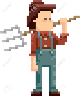
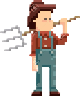
Se agrego el objeto que trae las flechas del teclado ademas de que se agrego la imagen del granjero al proyecto

diff --git a/js/platzi.js b/js/platzi.js
@@ -1,5 +1,6 @@
 var vp = document.getElementById("Villa_platzi");
 var papel = vp.getContext("2d");
+document.addEventListener("keydown", controlGranjero);//esto sirve para mover al granjero cuando oprima una tecla de las flechitas del teclado
 
 var fondo = {
     url: "img/tile.png",
@@ -19,7 +20,13 @@ var pollo = {
 };
 var granjero = {
     url: "img/granjero.png",
-    cargaOK: false
+    cargaOK: false,
+};
+var teclas = {
+    LEFT: 37,
+    UP: 38,
+    RIGHT: 39,
+    DOWN: 40
 };
 
 
@@ -42,6 +49,10 @@ cerdo.imagen.addEventListener("load", cargarCerdos);
 pollo.imagen = new Image();
 pollo.imagen.src = pollo.url;
 pollo.imagen.addEventListener("load", cargarPollos);
+
+granjero.imagen = new Image();
+granjero.imagen.src = granjero.url;
+granjero.imagen.addEventListener("load", cargarGranjero);
 
 
 function cargarFondo()
@@ -68,7 +79,13 @@ function cargarPollos()
     dibujar();
 }
 
-function dibujar(evento)
+function cargarGranjero()
+{
+    granjero.cargaOK = true;
+    dibujar();
+}
+
+function dibujar()
 {
     if(fondo.cargaOK)
     {
@@ -104,6 +121,12 @@ function dibujar(evento)
             papel.drawImage(pollo.imagen, x, y);
         }
     }
+    if(granjero.cargaOK)
+    {
+        var x = 400, y = 390;
+        console.log("Granjero dibujado");
+        papel.drawImage(granjero.imagen, x, y);//Esto viene ciendo el punto inicial donde se dibuja el granjero
+    }
 }
 
 function aleatorio(min, maxi)
@@ -111,4 +134,27 @@ function aleatorio(min, maxi)
     var resultado;
     resultado = Math.floor(Math.random() * (maxi - min + 1)) + min;
     return resultado;
+}
+
+//Funcion para que cuando precione una flechita ocurra algo que en este caso es que el grnajero se mueva
+function controlGranjero(evento)
+{
+    var movimiento = 5;
+    switch(evento.keyCode)
+    {
+        case teclas.DOWN:
+            y = y + movimiento;
+        break;
+        case teclas.UP:
+            y = y - movimiento;
+        break;
+        case teclas.RIGHT:
+            x = x + movimiento;
+        break;
+        case teclas.LEFT:
+            x = x - movimiento;
+        break;
+        default:
+        break;
+    }
 }
